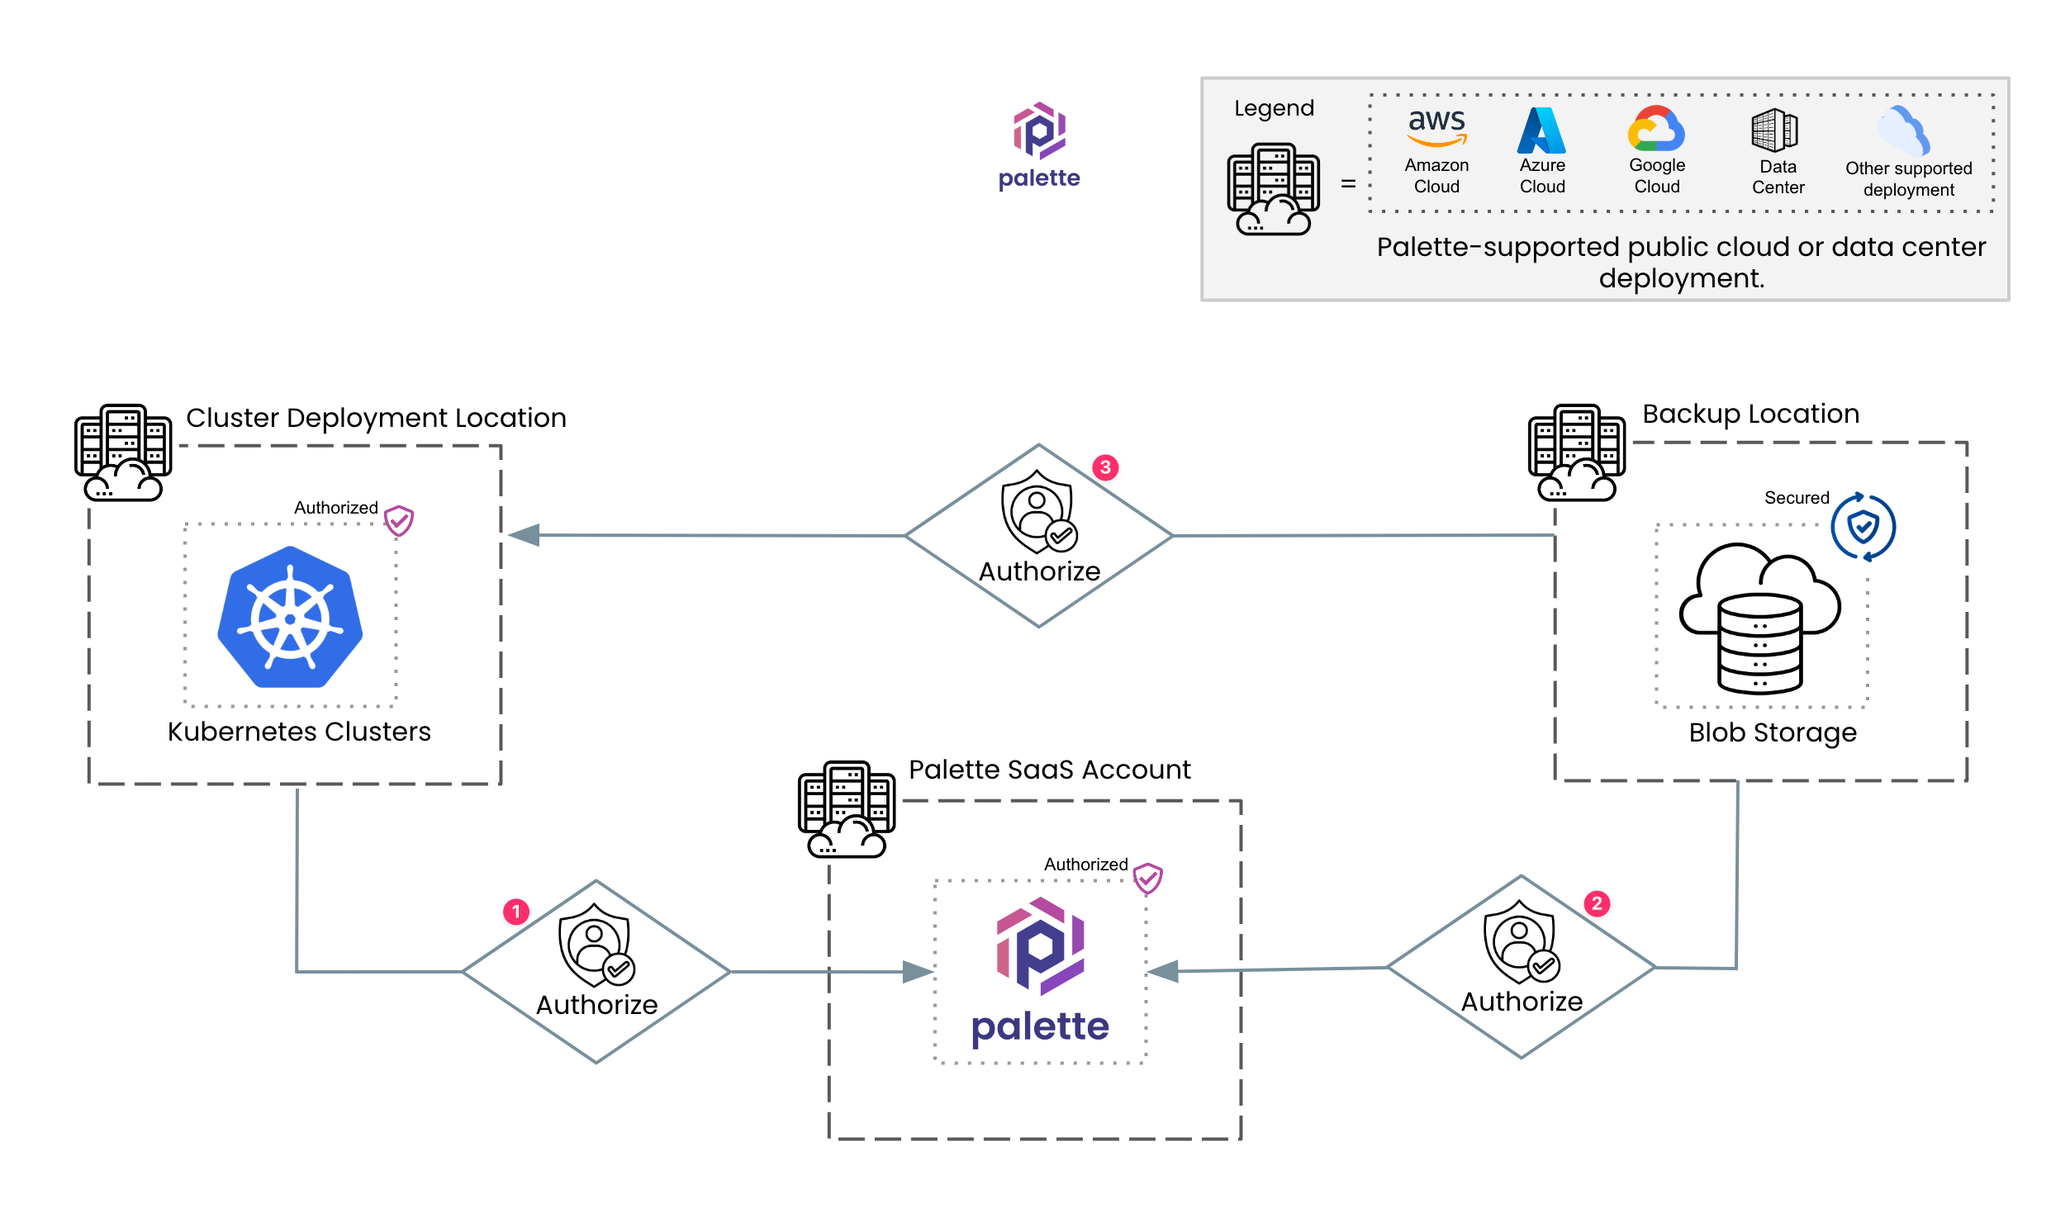
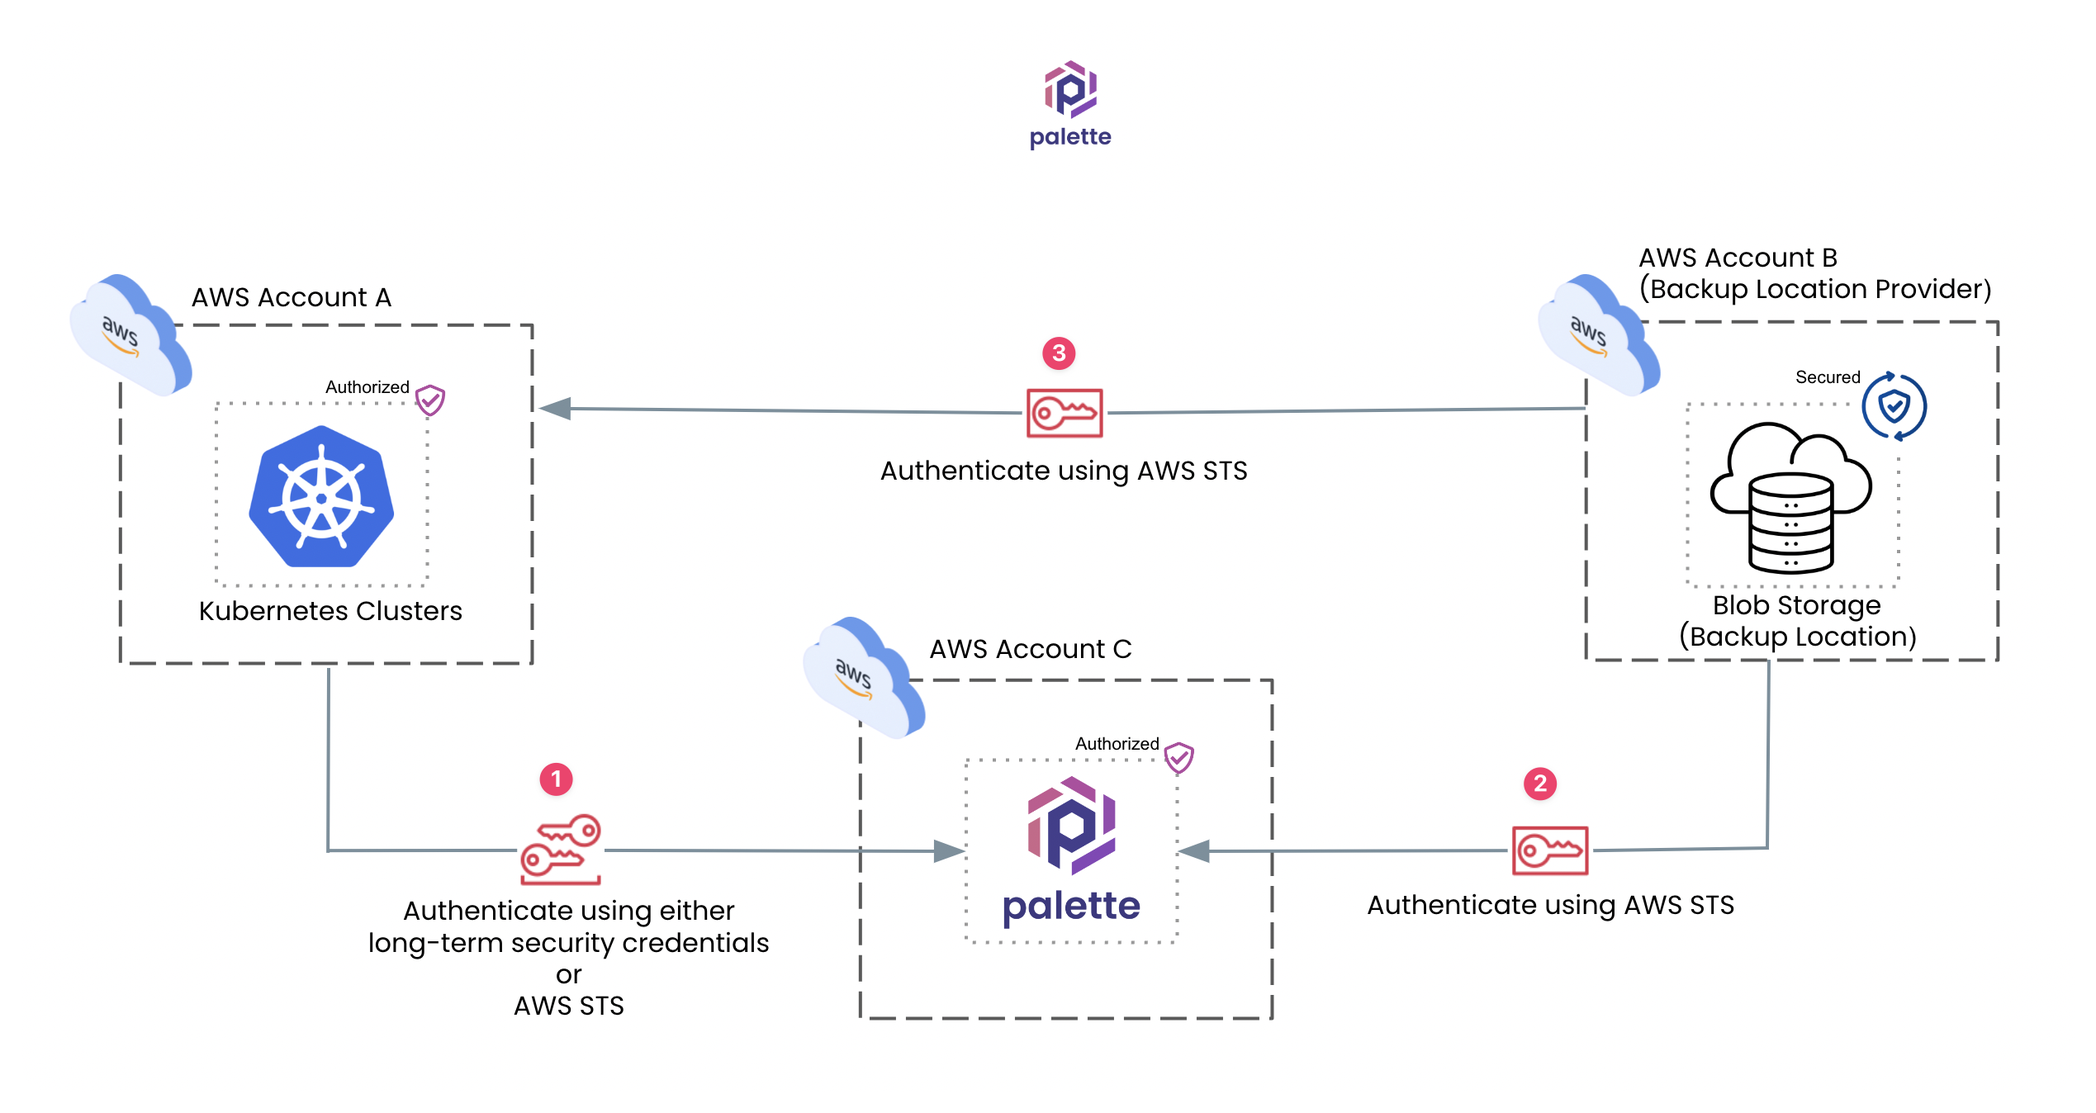
docs: change the diagram and the ssociated text

diff --git a/content/docs/04-clusters/06-cluster-management/05-backup-restore/02-add-backup-location-sts.md b/content/docs/04-clusters/06-cluster-management/05-backup-restore/02-add-backup-location-sts.md
@@ -1,6 +1,6 @@
 ---
-title: "Add Backup Location - Advanced Use Case"
-metaTitle: "Add Backup Location - Advanced Use Case"
+title: "Add Backup Location using Security Token Service"
+metaTitle: "Add Backup Location using Security Token Service"
 metaDescription: "Learn how to add an AWS account as the backup location in Palette using the STS method."
 hideToC: false
 fullWidth: false
@@ -11,39 +11,53 @@ import WarningBox from 'shared/components/WarningBox';
 import InfoBox from 'shared/components/InfoBox';
 
 
-# Add a Backup Location - Advanced Use Case
+# Add a Backup Location using the Security Token Service
 
-Suppose you have deployed a Kubernetes cluster in an AWS account and want to create the backup in another AWS account. For convenient referencing, this guide will refer to the former cloud account as *AWS Account A* and the latter as *AWS Account B*. 
-
-Before you create a backup, the initial step is configuring the backup location in Palette. In AWS, backups are stored and retrieved from S3 buckets. While configuring an S3 bucket in AWS Account B as the backup location, Palette will provide two methods to validate the cloud account - Credentials and STS. If you choose the STS method for validating AWS Account B, you must ensure the specific authorizations are in place, as discussed in the [Required Authorizations](#requiredauthorizations) section below. Otherwise, if you prefer the Credentials method, refer to the [Add a Backup Location](/clusters/cluster-management/backup-restore/add-backup-location) guide to know more. 
+Platte supports the Security Token Service (STS) authentication method only when both the following conditions are met:
 <br />
 
+1. Your Palette instance is hosted in AWS. If you use Palette SaaS or have an on-premises or self-hosted Palette deployed in AWS, you will get the STS option while adding a backup location. In all other cases, Palette does not support the STS method. 
 
-## Required Authorizations
 
-In the specific scenario described above, you must ensure the following authorizations are in place in the specific order mentioned below:
-<br />
+2. You want to add an AWS account as the backup location provider. The AWS account can be the same or different than your Palette instance. 
 
-1. Authorize Palette to administer the cluster in AWS Account A. When you register a primary cloud account in Palette, you authorize Palette to deploy clusters in the cloud account. Refer to the [Add AWS Account](/clusters/public-cloud/aws/add-aws-accounts) guide to learn more. 
 
-2. Authorize Palette to access the S3 buckets in AWS Account B. You update the storage bucket's access management policy to authorize Palette to access the storage bucket.
-
-3. Authorize the cluster to access the backup location. You update the storage bucket's access management policy to authorize the cluster to access the storage bucket.
-
-The following diagram illustrates the abovementioned order of operations you must complete in Palette.
+An example will help you better understand the steps you will learn in this guide. Suppose, your Kubernetes cluster is deployed in *AWS Account A*, and you want to create the backup in *AWS Account B*, whereas the Palette instance is hosted in *AWS Account C*. This scenario is a *generic* use case when you can use the STS method to add a backup location. The diagram below presents the generic use case and highlights the specific order of authentication you must follow. 
 
 ![A diagram highlighting the use-case when the backup cloud account differs from the cluster deployment cloud account.](/clusters_cluster-management_backup-restore_separate-cloud-accounts.png)
 
+<br />
+<InfoBox>
 
-To summarize, you must establish authorization between the three entities - the backup location, the cloud deployment location, and the Palette SaaS account.
-Considering the scenario described above, the following sections will outline the prerequisites and the steps to add AWS Account B as the backup location.
+The steps you will learn in this guide will apply even if any two or more entities, the cluster, the bucket, or Palette, share the cloud accounts. 
+
+</InfoBox>
+<br />
+
+
+## Overview of the Authentication Mechanism
+In the generic scenario described in the diagram above, you must ensure to implement the following order of authentication:
+<br />
+
+1. Authenticate Palette to administer the cluster in AWS Account A. When you register a primary cloud account in Palette, you authenticate and authorize Palette to deploy clusters in the cloud account. Refer to the [Add AWS Account](/clusters/public-cloud/aws/add-aws-accounts) guide to learn more. 
+
+
+2. Authenticate Palette to access the S3 buckets in AWS Account B. You achieve this step by defining the access permissions for the storage bucket and associate the permissions with an IAM role. Next, you define a trust relationship in the IAM role to allow Palette to assume the role. 
+
+
+3. Authenticate the cluster to access the S3 buckets in AWS Account B. You define another trust relationship in the IAM role to allow the cluster to assume the role. 
+
+
+
+The following sections will outline the prerequisites and the detailed steps to add an S3 bucket as the backup location in AWS Account B using the STS authentication method. 
+<br />
 
 # Prerequisites
 
 * An *AWS Account A*. It is the AWS account where you have deployed the Kubernetes cluster. 
 
 
-* An *AWS Account B*. You will create an S3 bucket in this AWS account and add it as the backup location. 
+* An *AWS Account B*. It is the AWS account where you want to create the backup location. 
 
 
 * An S3 bucket in the AWS Account B. The bucket will store the backup of your clusters or workspaces. 
@@ -124,7 +138,9 @@ Considering the scenario described above, the following sections will outline th
 5. Next, choose the **STS** validation method. 
 
 
-6. Swicth to the AWS Account B to create a new IAM role. The IAM role must have the necessary IAM policy attached, which you defined in the prerequisites section above. Refer to the [Creating a role to delegate permissions to an IAM user](https://docs.aws.amazon.com/IAM/latest/UserGuide/id_roles_create_for-user.html) document to learn about creating an IAM role. Use the following configuration while creating the IAM role. 
+6. When you choose the STS method, you must create a new IAM role and provide its ARN. 
+
+  Swicth to the AWS Account B to create a new IAM role. The IAM role must have the necessary IAM policy attached, which you defined in the prerequisites section above. Refer to the [Creating a role to delegate permissions to an IAM user](https://docs.aws.amazon.com/IAM/latest/UserGuide/id_roles_create_for-user.html) document to learn about creating an IAM role. Use the following configuration while creating the IAM role. 
 
   |**AWS Console Field**|**Value**|
   |---|---|
@@ -133,7 +149,7 @@ Considering the scenario described above, the following sections will outline th
   |AWS Account ID|Use the one displayed in Palette. It is Palette SaaS account ID.|
   |Options|Select the Require external ID checkbox.|
   |External ID|Use the one displayed in Palette. Palette generates the external ID.|
-  |Permissions policies| Attach the IAM policy defined above.|
+  |Permissions policies| Attach the IAM policy defined in the prerequisites section above.|
   |Role name|Your choice.|
   |Role description|Your choice.|
 
@@ -208,6 +224,8 @@ Considering the scenario described above, the following sections will outline th
     ]
   }
   ```
+  You can refer to the [How to use trust policies with IAM roles](https://aws.amazon.com/blogs/security/how-to-use-trust-policies-with-iam-roles/) blog by AWS to learn more.
+  
 
 10. Copy the ARN of the newly created IAM role from AWS.
 

diff --git a/content/docs/04-clusters/06-cluster-management/05-backup-restore/01-add-backup-location.md b/content/docs/04-clusters/06-cluster-management/05-backup-restore/01-add-backup-location.md
@@ -1,6 +1,6 @@
 ---
-title: "Add Backup Location"
-metaTitle: "Add Backup Location"
+title: "Add Backup Location using Access Credentials"
+metaTitle: "Add Backup Location using Access Credentials"
 metaDescription: "Learn how to add a backup location in Palette. Adding a backup location is a standard step whether you want to create a cluster backup or a workspace backup."
 hideToC: false
 fullWidth: false
@@ -11,11 +11,24 @@ import WarningBox from 'shared/components/WarningBox';
 import InfoBox from 'shared/components/InfoBox';
 
 
-# Add a Backup Location
+# Add a Backup Location using Access Credentials
 
-This how-to guide provides instructions on how to add a backup location in Palette. You must add a backup location before creating a backup of a cluster or workspace. For the backup location, you can add the same cloud account where you deployed the Kubernetes cluster or a different one. The following sections describe the prerequisites and the steps to add a backup location in Palette. You can refer to the [Cluster Backup and Restore](/clusters/cluster-management/backup-restore) guide to learn more about the fundamentals of backup and restore. 
+Suppose you want to add a backup location in Palette using long-term access credentials. In that case, you must accomplish the following actions. 
+<br />
 
-Select the tab that matches the environment where you want to create a backup.
+1. Create a storage bucket to store the backup files. For example, if you configure the backup location in AWS, you will need an S3 bucket. Another example is if you configure the backup location in Azure, you will need a container in the Azure Storage account.
+
+
+2. Define the access permissions for the storage bucket and associate the permissions with an IAM entity. Depending on your cloud or data center platform, the IAM entity can be a user, service principal, or role. 
+
+
+3. Generate the long-term access credentials for the IAM entity with sufficient permissions to perform the bucket-related operations.
+When you generate the long-term access credentials for an IAM entity, you do not embed the application's identity that will use the credentials. 
+Therefore, any application that has the credentials can assume the IAM entity. In the current case, you will share the credentials with Palette so that it can assume the IAM entity's role to perform the bucket-related operations.  
+
+
+The following sections will provide more detailed instructions. Select the tab that matches the environment where you want to create a backup.
+
 <br />
 
 <Tabs>
@@ -24,6 +37,7 @@ Select the tab that matches the environment where you want to create a backup.
 ## Prerequisites
 
 * An AWS account. 
+
 
 * An S3 bucket in the AWS account. The bucket will store the backup of your clusters or workspaces. 
 
@@ -82,9 +96,7 @@ Select the tab that matches the environment where you want to create a backup.
 2. Navigate to the **Project Settings** and click on **Backup Locations** page. 
 
 
-3. Click on the **Add New Backup Location** button. Palette will open a wizard to add the new backup location, as highlighted in the screenshot below. 
-
-	![A screenshot highlighting the wizard and configuration fields to add a backup location in Palette.](/clusters_cluster-management_backup-restore_add_aws_account.png)
+3. Click on the **Add New Backup Location** button. 
 
 
 4. Fill out the following input fields. 
@@ -99,53 +111,15 @@ Select the tab that matches the environment where you want to create a backup.
 	|**S3 URL**|It is an optional field. If you choose to provide a value, refer to the [Methods for accessing a bucket](https://docs.aws.amazon.com/AmazonS3/latest/userguide/access-bucket-intro.html#virtual-host-style-url-ex) guide to determine the bucket URL. If you provided an S3 URL, select the **Force S3 path style** checkbox.|
 
 
-5. Next, choose a validation method, **Credentials** or **STS**. 
+5. Next, choose the **Credentials** validation method. If you want to chose the STS method instead, refer to the [Add a Backup Location using Security Token Service](/clusters/cluster-management/backup-restore/add-backup-location-sts) for guided instructions. 
 
 
-6. Provide the IAM user's access key if you chose the Credentials method. Otherwise, provide the IAM role ARN if you chose the STS method. Checkout one of the tabs below that matches your use case. <br /> <br />
-
-	<Tabs>
-
-  <Tabs.TabPane tab="Credentials" key="credentials">
-
-  If you choose the Credentials method, provide an IAM user's access key. The IAM user must have the necessary IAM policy attached, which you defined in the prerequisites section above. The policy will allow Palette to create a backup in the S3 bucket. 
+6. Provide the IAM user's access key if you chose the Credentials method. The IAM user must have the necessary IAM policy attached, which you defined in the prerequisites section above. The policy will allow Palette to create a backup in the S3 bucket. 
   
   If you do not have an IAM user, refer to the [Creating an IAM user in your AWS account](https://docs.aws.amazon.com/IAM/latest/UserGuide/id_users_create.html) document to learn how to create an IAM user. While creating the IAM user, ensure to attach the IAM policy you defined in the prerequisites section above. After creating the new IAM user, AWS will automatically generate and display an access key. 
 
   Alternatively, you can create a new access key for an existing IAM user. Refer to the [Managing access keys for IAM users](https://docs.aws.amazon.com/IAM/latest/UserGuide/id_credentials_access-keys.html) document to learn about creating an access key for a particular IAM user. 
-	
-  </Tabs.TabPane>
 
-  <Tabs.TabPane tab="STS" key="sts">
-
-	<br />
-
-	<WarningBox>
-
-	The steps below are applicable only if your backup location AWS account also hosts the Kubernetes cluster. In the other case, refer to the advanced use case described in the [Add a different AWS Account using STS Method](/clusters/cluster-management/backup-restore/add-backup-separate-aws) guide. 
-
-	</WarningBox>
-
-	<br />
-
-	If you choose the STS method, you must create a new IAM role and provide its ARN. The IAM role must have the necessary IAM policy attached, which you defined in the prerequisites section above. 
-	
-	Refer to the [Creating a role to delegate permissions to an IAM user](https://docs.aws.amazon.com/IAM/latest/UserGuide/id_roles_create_for-user.html) document to learn about creating an IAM role. Use the following configuration while creating the IAM role. 
-
-    |**AWS Console Field**|**Value**|
-    |---|---|
-    |Trusted entity type| AWS account.|
-    |AWS account|Select the *Another AWS account* radio button.|
-    |AWS Account ID|Use the one displayed in Palette. It is Palette SaaS account ID.|
-    |Options|Select the Require external ID checkbox.|
-    |External ID|Use the one displayed in Palette. Palette generates the external ID.|
-    |Permissions policies| Attach the IAM policy defined above.|
-    |Role name|Your choice.|
-    |Role description|Your choice.|
-    
-  </Tabs.TabPane>
-
-	</Tabs>
 
 
 7. Click on the **Validate** button. 

diff --git a/content/docs/04-clusters/06-cluster-management/05-backup-restore.md b/content/docs/04-clusters/06-cluster-management/05-backup-restore.md
@@ -21,26 +21,48 @@ You can schedule and take a backup of a specific cluster or an entire [workspace
 
 ## Backup Location
 
-A backup location is an object storage where you store and retrieve the backup files. Before you create a backup, the initial step is to configure a backup location in Palette. You can configure a backup location in a public cloud or a data center environment. A backup location can be the same or different than the cluster deployment location. Palette supports the following object storages as the backup location.
+A backup location is an object storage, such as AWS Simple Storage Service (S3) buckets, where you store and retrieve the backup files. Before you create a backup, the initial step is to configure a backup location in Palette. You can configure a backup location in a public cloud or a data center environment. A backup location can be the same or different than the cluster deployment location. Palette supports the following object storages as the backup location.
 
-- Amazon Web Services (AWS) Simple Storage Service (S3) bucket
+- Amazon Web Services (AWS) S3 bucket
 
 - Google Cloud Platform (GCP) bucket
 
 - MinIO S3 bucket
 
 - Azure blob storage
+<br />
 
-One of the main prerequisites to configuring a backup location is that the storage bucket is created where you want to store the backup files. For example, if you configure the backup location in AWS, you will need an S3 bucket. Another example is if you configure the backup location in Azure, you will need a container in the Azure Storage account.
+## Add a Backup Location - Overview
 
-After creating the storage bucket, you define the access permissions for the storage bucket and associate the permissions with an Identity Access Management (IAM) entity. Depending on your cloud or data center platform, the IAM entity can be a user, service principal, or role,  Next, you generate the access credentials for the IAM entity. When you configure a backup location in Palette, you provide Palette the access credentials so that it can assume the IAM entity's role to perform the bucket-related operations.  
+You can add a backup location in the same cloud account where you deployed the Kubernetes cluster or a different one. In either case, you must create an Identity Access Management (IAM) entity in the cloud account and generate the access credentials for the IAM entity. 
+Next, you share the access credentials with Palette. 
+Palette uses the access credentials to authenticate itself while accessing the bucket. 
+Palette supports the following access credentials to authenticate with the different cloud account types.
+<br />
+
+|**Backup Location Provider**|**Does Palette supports long-term credentials?**|**Does Palette supports on-demand temporary security credentials or tokens?**|
+|---|---|---|
+|AWS|✅|✅|
+|GCP|✅|❌|
+|MinIO|✅|❌|
+|Azure|✅|❌|
+
+
+You can use the long-term access credentials for all backup location providers. AWS, GCP, and Azure offer different types of long-term credentials for access. You do not use Palette's instance identity while generating the access credentials. The long-term credentials remain valid until you explicitly revoke or rotate them from your cloud account. Refer to the [Add a Backup Location using Access Credentials](/clusters/cluster-management/backup-restore/add-backup-location) guide for more detials. 
+
+
+However, if you use AWS's on-demand temporary security credentials service, the Security Token Service (STS), there are certain conditions you must fulfill to create and restore a backup. Refer to the [Add a Backup Location using Security Token Service](/clusters/cluster-management/backup-restore/add-backup-location-sts) guide for more details. 
+<br />
 
 
 # Resources
 The following resources will help you configure a backup location and create and restore a cluster backup.
 <br />
 
-- [Add a Backup Location](/clusters/cluster-management/backup-restore/add-backup-location)
+- [Add a Backup Location using Access Credentials](/clusters/cluster-management/backup-restore/add-backup-location)
+
+
+- [Add a Backup Location using Security Token Service](/clusters/cluster-management/backup-restore/add-backup-location-sts)
 
 
 - [Create a Cluster Backup](/clusters/cluster-management/backup-restore/create-backup)
